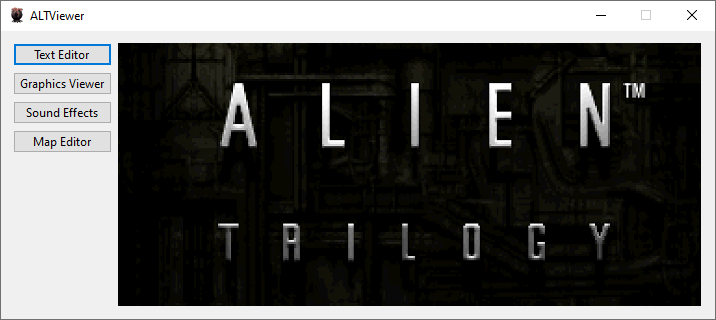
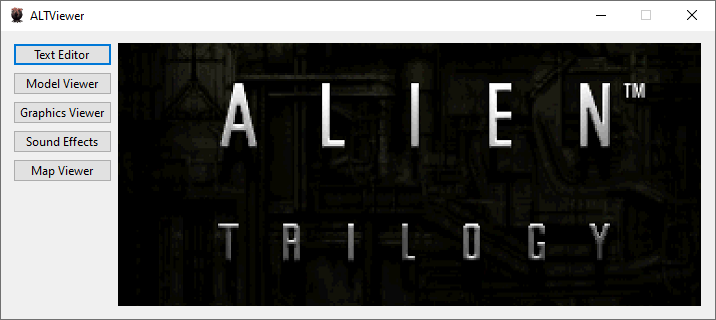
readme and images updated

diff --git a/README.md b/README.md
@@ -28,26 +28,30 @@ Map Editor
 
 The road map for this project.
 
-- [✅ 1 : Sound Effects Viewer](#sound-effects-viewer) ( 100% Complete )
-	- .RAW audio files can be played, replaced and converted to and from .WAV files.
-	- Waveform preview for selected sound files.
-	- Link to the music directory, only available with the repack.
-	- Automatic backup of the original file by default.
-- [✅ 2 : Graphics Viewer](#graphics-viewer) ( 99% Complete )
+- [✅ 1 : Text Editor](#text-editor) ( 50% Complete )
+	- View text from the games missions and user interface.
+	- Editing and saving functions not implemented yet.
+- [✅ 2 : Model Viewer](#model-viewer) ( 95% Complete )
+	- Can extract models from the three known model files.
+	- Does not currently extract the associated textures alongside them.
+- [✅ 3 : Graphics Viewer](#graphics-viewer) ( 99% Complete )
 	- Palette detection implemented.
 	- Toggle palette export or transparency for viewing and exporting.
 	- View, export and replace textures, replacing compressed images is not supported yet. ( .B16 files, weapons and enemies. )
 	- Automatic backup of the original file by default.
-- [✅ 3 : Palette Editor](#palette-editor) ( 100% Complete )
+- [✅ 4 : Palette Editor](#palette-editor) ( 100% Complete )
 	- Palette editor and image preview.
 	- View, export, import and edit palettes for all types of images. ( Embedded, External & Compressed )
 	- Visual feedback showing unused colours across all sections and frames, except for embedded palettes where each section has its own colour palette.
 	- Automatic backup of the original file by default.
-- [✅ 4 : Text Editor](#text-editor) ( 50% Complete )
-	- View text from the games missions and user interface.
-	- Editing and saving functions not implemented yet.
-- [❌ 5 : Map Editor](#map-editor) ( 1% Complete )
+- [✅ 5 : Sound Effects Viewer](#sound-effects-viewer) ( 100% Complete )
+	- .RAW audio files can be played, replaced and converted to and from .WAV files.
+	- Waveform preview for selected sound files.
+	- Link to the music directory, only available with the repack.
+	- Automatic backup of the original file by default.
+- [❌ 6 : Map Editor](#map-editor) ( 5% Complete )
 	- Map files detected and listed.
+	- Basic details parsed and listed.
 
 And possibly more to come.
 
@@ -69,12 +73,26 @@ The main program window.
   <img src="Images/altviewer.png" alt="Alien Trilogy Viewer">
 </div>
 
-## Sound Effects Viewer
+## Text Editor
 
-Listen to, extract, replace or restore audio files from backups.
+Edit text in the game, intended for localisation efforts.
 
 <div align="center">
-  <img src="Images/soundeffects.png" alt="Sound Effects Viewer">
+  <img src="Images/texteditor.png" alt="Text Editor">
+</div>
+
+## Model Viewer
+
+Extract models from the games files.
+
+<div align="center">
+  <img src="Images/modelviewer.png" alt="Model Viewer">
+</div>
+
+A showcase of some of the models from the games files.
+
+<div align="center">
+  <img src="Images/showcase.png" alt="Model Showcase">
 </div>
 
 ## Graphics Viewer
@@ -117,12 +135,12 @@ This image shows an embedded palette that has been replaced.
   <img src="Images/embeddedpalettereplacement.png" alt="Embedded Palette Replacement">
 </div>
 
-## Text Editor
+## Sound Effects Viewer
 
-Edit text in the game, intended for localisation efforts.
+Listen to, extract, replace or restore audio files from backups.
 
 <div align="center">
-  <img src="Images/texteditor.png" alt="Text Editor">
+  <img src="Images/soundeffects.png" alt="Sound Effects Viewer">
 </div>
 
 ## Map Editor
